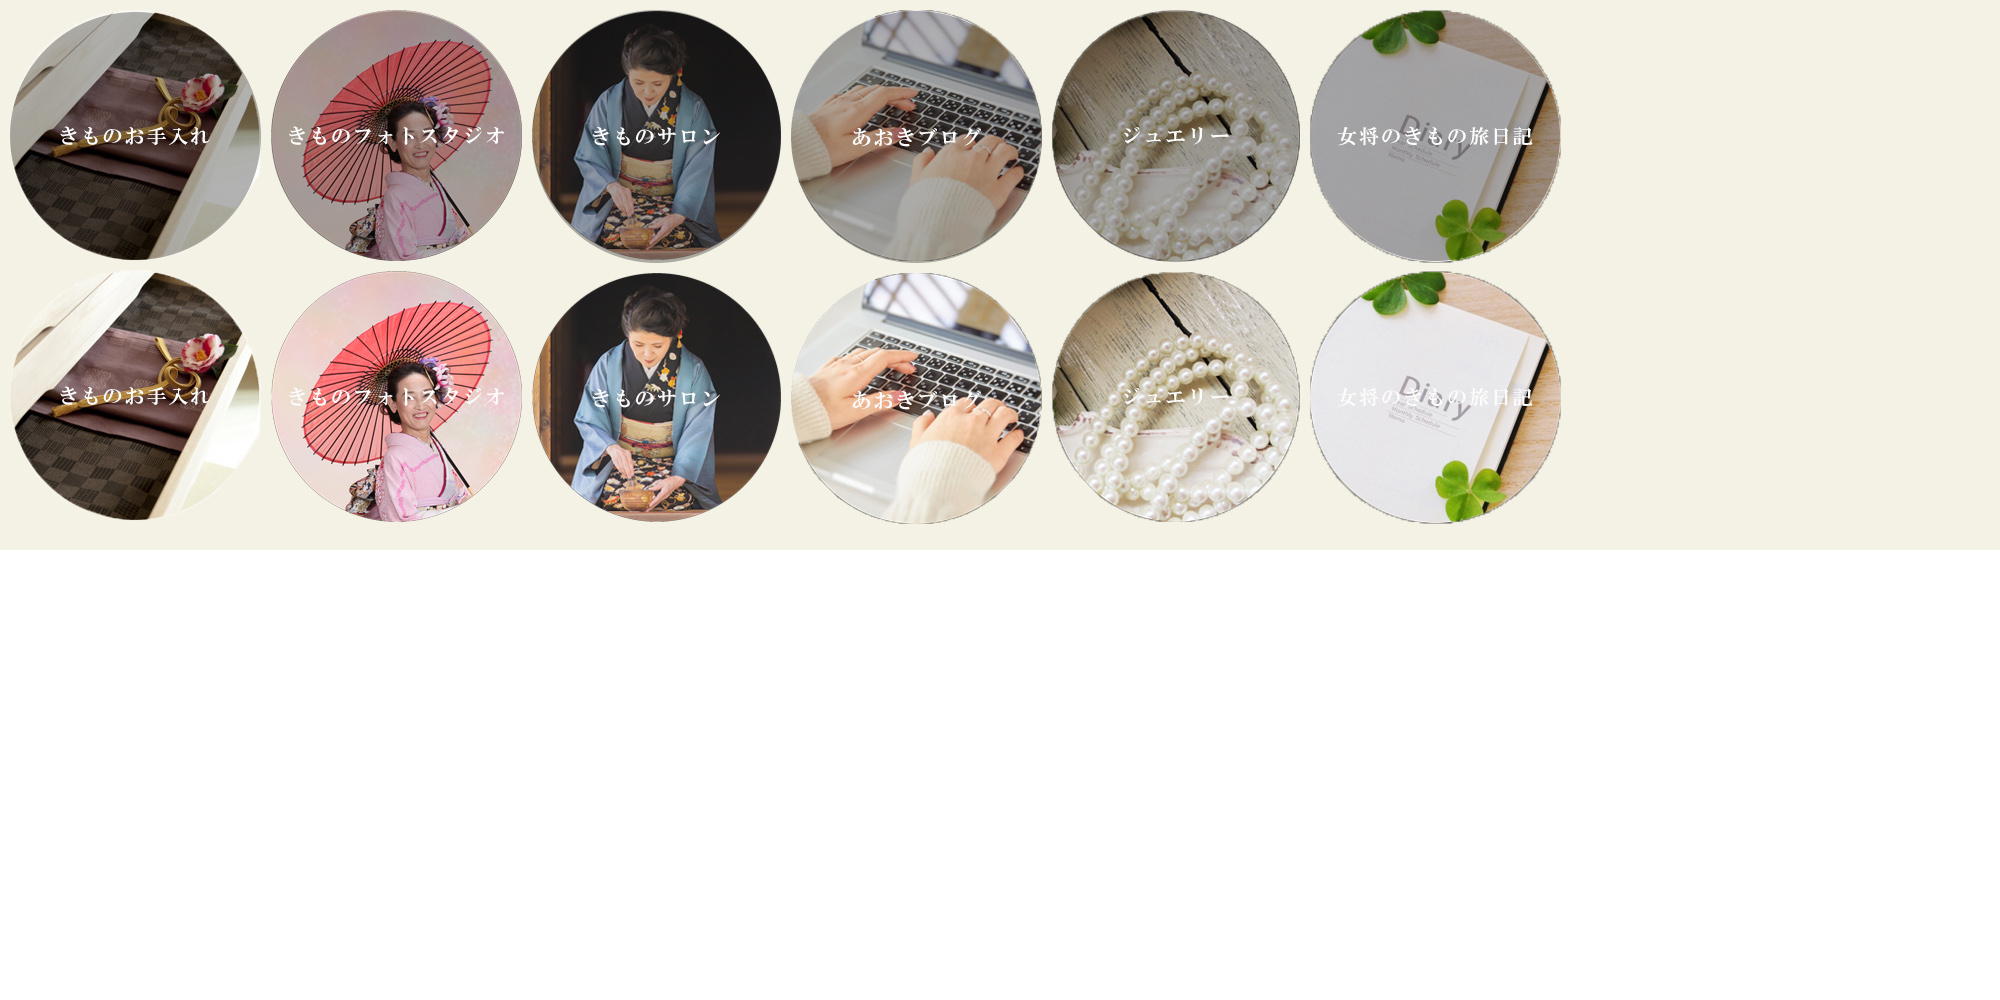
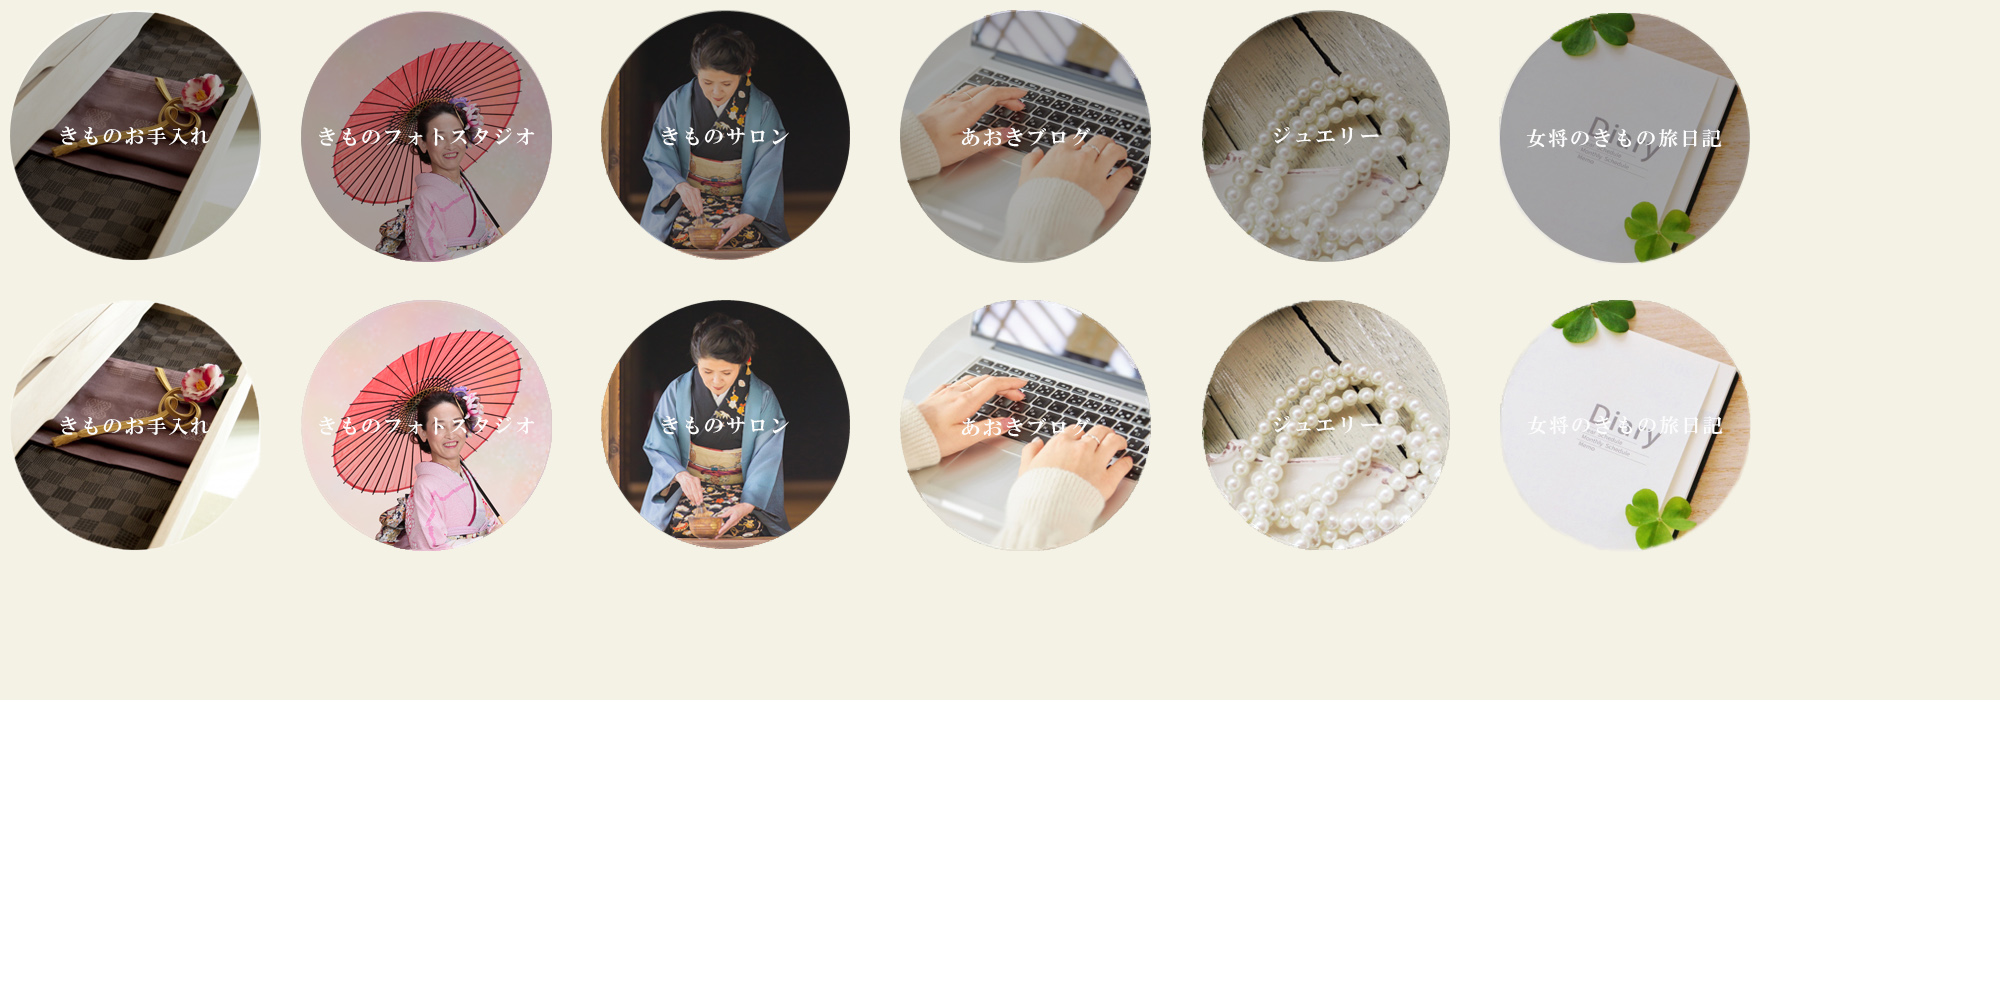
きものブティックあおきトップページ　作業中

diff --git a/aoki/style.css b/aoki/style.css
@@ -2,7 +2,7 @@ body{
 	margin: 0px;
 	background-image: url("img/gamen.gif");
 	background-repeat: repeat;
-	font-family: "HG明朝E",sans-serif;
+	font-family: "HG明朝E",Georgia, "游明朝体", "YuMincho", "游明朝", "Yu Mincho", "ヒラギノ明朝 ProN W3", "Hiragino Mincho ProN W3", HiraMinProN-W3, "ヒラギノ明朝 ProN", "Hiragino Mincho ProN", "ヒラギノ明朝 Pro", "Hiragino Mincho Pro", "HGS明朝E", "ＭＳ Ｐ明朝", "MS PMincho",serif;
 }
 div#wrapper{
 	max-width: 2000px;
@@ -87,7 +87,6 @@ ul#globalnav{
 	margin-left: 6%;
 	width: 88%;
 	padding: 0px;
-	
 	margin-top: 16px;
 	display: flex;
 	font-size: 0.93vw;
@@ -99,13 +98,13 @@ ul#globalnav li{
 }
 ul#globalnav li a{
 	display: block;
-	padding: 0 0 16px;
+	padding: 6px 0px 6px;
 	position: relative;
 	text-decoration: none;
 }
 ul#globalnav li a::before,
 ul#globalnav li a::after{
-	border-bottom: solid 2px #e9e2b6;
+	border-bottom: solid 2.5px #e9e2b6;
  	bottom: 0;
  	content: "";
  	display: block;
@@ -362,31 +361,31 @@ li.buttom1-img a{
 li.buttom1-img a:hover{
 	height: 251px;
 	width: 251px;
-	background-position: -10px -270px;
+	background-position: -10px -300px;
 }
 li.buttom2-img{
 	margin-right: 14%;
 }
 li.buttom2-img a{
-	height: 251px;
-	width: 251px;
-	background-position: -271px -10px;
+	height: 252px;
+	width: 252px;
+	background-position: -300px -10px;
 }
 li.buttom2-img a:hover{
-	height: 251px;
-	width: 251px;
-	background-position: -271px -270.5px;
+	height: 252px;
+	width: 252px;
+	background-position: -300px -300px;
 }
 
 li.buttom3-img a{
 	height: 250px;
-	width: 249px;
-	background-position: -532px -10px;
+	width: 250px;
+	background-position: -600px -10px;
 }
 li.buttom3-img a:hover{
 	height: 250px;
-	width: 249px;
-	background-position: -532px -271.61245px;
+	width: 250px;
+	background-position: -600px -300px;
 }
 ul#buttom2{
 	width: 100%;
@@ -410,37 +409,37 @@ li.buttom4-img{
 	margin-right: 14%;
 }
 li.buttom4-img a{
-	height: 251px;
-	width: 251px;
-	background-position: -791px -11px;
+	height: 252px;
+	width: 252px;
+	background-position: -900px -10px;
 }
 li.buttom4-img a:hover{
-	height: 251px;
-	width: 251px;
-	background-position: -791px -274.5px;
+	height: 252px;
+	width: 252px;
+	background-position: -900px -300px;
 }
 li.buttom5-img{
 	margin-right: 14%;
 }
 li.buttom5-img a{
-	height: 250px;
-	width: 250px;
-	background-position: -1050.6px -11px;
+	height: 252px;
+	width: 252px;
+	background-position: -1200px -10px;
 }
 li.buttom5-img a:hover{
-	height: 250px;
-	width: 250px;
-	background-position: -1050.6px -272px;
+	height: 252px;
+	width: 252px;
+	background-position: -1200px -300px;
 }
 li.buttom6-img a{
 	height: 253px;
 	width: 251px;
-	background-position: -1310px -11px;
+	background-position: -1500px -10px;
 }
 li.buttom6-img a:hover{
 	height: 253px;
 	width: 251px;
-	background-position: -1310px -272px;
+	background-position: -1500px -300px;
 }
 .news-title{
 	text-align: center;
